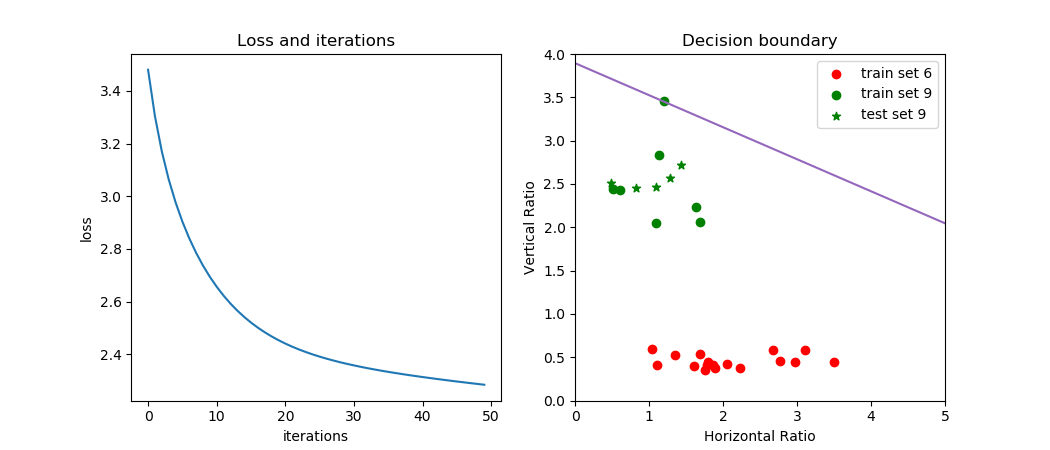
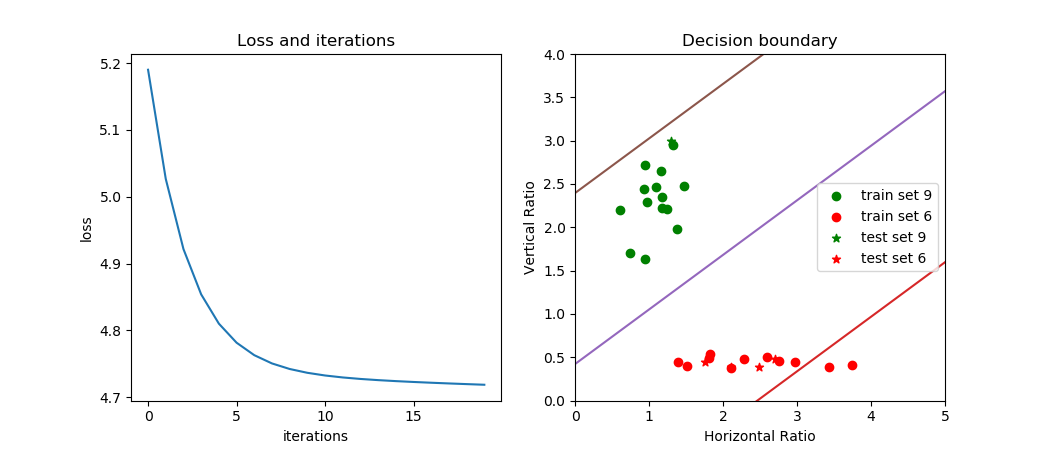
add some pictures for demo.

diff --git a/codes/bin_classify.py b/codes/bin_classify.py
@@ -249,7 +249,7 @@ if __name__ == '__main__':
 
     input_x = mixed_data[0:30, 0:2]
     input_y = mixed_data[0:30, 2]
-    A = QtmClassifier(input_x, input_y, 7, 50)
+    A = QtmClassifier(input_x, input_y, 5, 20)
     # A = Classifier(mixed_data[0:90, 0:2], mixed_data[0:90, 2])
     # print(A.train_y)
     A.run()

diff --git a/README.md b/README.md
@@ -43,3 +43,4 @@ which means if collapse the wave function of ancilla qubits to
 <img src="http://chart.googleapis.com/chart?cht=tx&chl=\Large |0\rangle " style="border:none;">, by measuring output qubits,
 we could get the desired non-linear function.
 
+
